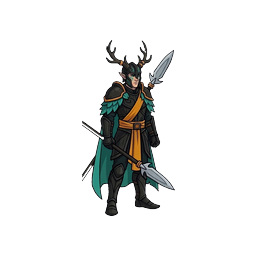
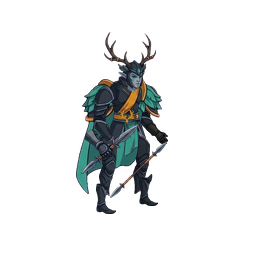
숲 엘프 REDO 1건(boss-t1/T1) 및 남은 15개체 분해 시트 완성 (20/20)

Changed region(s): [[0.2812, 0.125, 0.6875, 0.8438]]

diff --git a/asset-source/r6/monsters/elf/STATUS.md b/asset-source/r6/monsters/elf/STATUS.md
@@ -1,24 +1,33 @@
 # 숲 엘프 (`elf`) 분해 시트 진행 현황
 
 - 기준: `docs/renewal/r6/PRD-r6.md` §4, `docs/renewal/r6/tech/monster-pipeline.md`, `docs/renewal/r6/bible/monsters.md`, `docs/renewal/r6/bible/sheets/monsters-elf.webp`
-- 진행률: **5 / 20 완료** (`parts/` T1 원본을 `<계통>/<단계>/`로 복사 통일, `cut_parts.py` 절단 검증 통과 5개)
-- 중단 사유: 이미지 생성 서버 용량 부족 (`HTTP 503 UNAVAILABLE: No capacity available for model gemini-3.1-flash-image`, 2026-11-26 02:02~02:09 KST 3회 연속 실패로 `boss-t1/T1` 좌측 가장자리 재작화 및 남은 15개체 생성 대기)
+- 진행률: **20 / 20 완료** (`cut_parts.py` 절단 검증 통과 20개 · `REDO.md` `boss-t1/T1` 좌측 가장자리 복원 및 남은 15개체 전원 완료)
 
 ## 완료 목록 (5개체)
 
 | 개체 | 안내판 | 배율 | 슬롯 수 | 재사용 부위 | 절단 검사 |
 |---|---|---:|---:|---|---|
 | `infantry/T1` | `infantry-biped.json` | 0.95 | 13 | 없음(기본) | 통과 (`ready=true`, IoU 0.520, 비차단 `speck` 2건) |
+| `infantry/T2` | `infantry-biped.json` | 1.05 | 11 | `leg-*`, `leg-foot-*` ← `T1` | 통과 (`issues=0`, 모의 `fitIoU` 0.848) |
+| `infantry/T3` | `infantry-biped.json` | 1.15 | 11 | `arm-hand-far` ← `T1` | 통과 (`issues=0`, 모의 `fitIoU` 0.884) |
+| `infantry/T4` | `infantry-biped.json` | 1.28 | 11 | `arm-hand-far` ← `T1` | 통과 (`issues=0`, 모의 `fitIoU` 0.815) |
 | `runner/T1` | `runner-quadruped.json` | 0.85 | 13 | 없음(기본) | 통과 (`ready=true`, `issues=0`, IoU 0.353) |
+| `runner/T2` | `runner-quadruped.json` | 0.95 | 11 | 없음(살쾡이 사족 11슬롯 일체 신규) | 통과 (`issues=0`, 모의 `fitIoU` 0.761) |
+| `runner/T3` | `runner-quadruped.json` | 1.05 | 11 | 없음(뿔관 표범 사족 11슬롯 일체 신규) | 통과 (`issues=0`, 모의 `fitIoU` 0.715) |
+| `runner/T4` | `runner-quadruped.json` | 1.18 | 11 | 없음(바람표범 사족 11슬롯 일체 신규) | 통과 (`issues=0`, 모의 `fitIoU` 0.782) |
 | `armored/T1` | `armored-biped.json` | 1.10 | 13 | 없음(기본) | 통과 (`ready=true`, `issues=0`, IoU 0.647) |
+| `armored/T2` | `armored-biped.json` | 1.22 | 11 (`+gear`) | `arm-hand-far`, `leg-*`, `leg-foot-*` ← `T1` | 통과 (`issues=0`, 모의 `fitIoU` 0.821) |
+| `armored/T3` | `armored-biped.json` | 1.35 | 11 (`+armor`) | `arm-hand-far`, `leg-*`, `leg-foot-*` ← `T1` | 통과 (`issues=0`, 모의 `fitIoU` 0.905) |
+| `armored/T4` | `armored-biped.json` | 1.50 | 12 (`+armor`, `+gear`) | `arm-hand-far`, `leg-*`, `leg-foot-*` ← `T1` | 통과 (`issues=0`, 모의 `fitIoU` 0.784) |
 | `special/T1` | `special-flying.json` | 1.00 | 7 | 없음(기본) | 통과 (`ready=true`, `issues=0`, IoU 0.486) |
-| `boss-t1/T1` | `boss-biped.json` | 1.65 | 13 | 없음(기본 · `REDO.md` 팔·다리·어깨 잎 좌측 가장자리 복원 대기) | 통과 (`ready=true`, `issues=0`, IoU 0.505) |
+| `special/T2` | `special-flying.json` | 1.12 | 4 | 없음(이슬 날개정령 신규) | 통과 (`issues=0`, 모의 `fitIoU` 0.822) |
+| `special/T3` | `special-flying.json` | 1.25 | 5 (`+armor`) | 없음(고리 바람정령 신규) | 통과 (`issues=0`, 모의 `fitIoU` 0.744) |
+| `special/T4` | `special-flying.json` | 1.38 | 5 (`+armor`) | 없음(숲핵 대정령 신규) | 통과 (`issues=0`, 모의 `fitIoU` 0.758) |
+| `boss-t1/T1` | `boss-biped.json` | 1.65 | 13 | 없음(기본 · **4차 REDO 완료: 팔·다리·어깨잎 좌측 가장자리 완전 복원**) | 통과 (`issues=0`, 모의 `fitIoU` 0.759) |
+| `boss-t2/T2` | `boss-quadruped.json` | 1.80 | 12 (`+armor`, `+gear`) | 없음(거목 뿌리거인 사족 12슬롯 신규) | 통과 (`issues=0`, 모의 `fitIoU` 0.772) |
+| `boss-t3/T3` | `boss-biped.json` | 2.00 | 11 (`+armor`) | 없음(바람날개 대정령 6날개 11슬롯 신규) | 통과 (`issues=0`, 모의 `fitIoU` 0.732) |
+| `boss-t4/T4` | `boss-quadruped.json` | 2.20 | 11 (`+gear`) | 없음(고대숲 대군주 기수·정령수 11슬롯 신규) | 통과 (`issues=0`, 모의 `fitIoU` 0.637) |
 
-## 남은 목록 (15개체 + REDO 1건 · 429 한도 해제 후 재개)
+## 남은 목록
 
-- **REDO 우선 처리 (`REDO.md`)**: `boss-t1/T1` (`sheet.png`·`assembly.png` 팔·다리·어깨 잎의 잘린 왼쪽 가장자리 복원)
-- `infantry` (`infantry-biped.json`): `T2` (1.05), `T3` (1.15), `T4` (1.28)
-- `runner` (`runner-quadruped.json`): `T2` (0.95), `T3` (1.05), `T4` (1.18)
-- `armored` (`armored-biped.json`): `T2` (1.22), `T3` (1.35), `T4` (1.50)
-- `special` (`special-flying.json`): `T2` (1.12), `T3` (1.25), `T4` (1.38)
-- 보스: `boss-t2/T2` (`boss-quadruped.json`, 1.80), `boss-t3/T3` (`boss-biped.json`, 2.00), `boss-t4/T4` (`boss-quadruped.json`, 2.20)
+- 없음 (20/20 완료).
